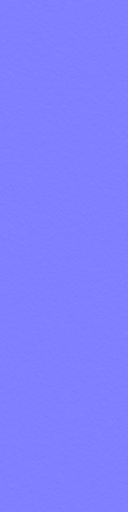
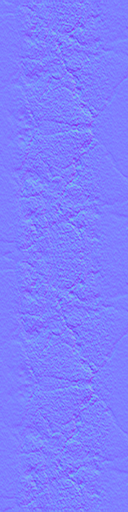
Real rubber, road film and scratch splats; scratch stamps from metal photographs; skid marks and gouges take real tarmac and soil grain

diff --git a/mod/vehicles/common/carSurfaceFx/scratch.js b/mod/vehicles/common/carSurfaceFx/scratch.js
@@ -48,11 +48,29 @@
     dirty = true;
   }
 
+  // a scratch stamp (4 columns x 8 rows of 256 x 128, the scratch runs along x) along every segment of a mark: the variant by place, thickness by the mark's width
+  function drawStamps(o, img) {
+    sctx.globalCompositeOperation = palette ? 'destination-out' : 'source-over';
+    for (var i = 0; i < o.l.length; i += 5) {
+      var x1 = o.l[i] * W, y1 = o.l[i + 1] * W, x2 = o.l[i + 2] * W, y2 = o.l[i + 3] * W, len = Math.sqrt((x2 - x1) * (x2 - x1) + (y2 - y1) * (y2 - y1));
+      if (len < 2) continue;
+      var v = Math.floor(hash(o.l[i], o.l[i + 1], 3) * 32), th = Math.max(6, o.l[i + 4] * W * 5);
+      sctx.save();
+      sctx.globalAlpha = Math.min(1, o.a);
+      sctx.translate((x1 + x2) / 2, (y1 + y2) / 2); sctx.rotate(Math.atan2(y2 - y1, x2 - x1));
+      sctx.drawImage(img, (v % 4) * 256, Math.floor(v / 4) * 128, 256, 128, -len * 0.6, -th / 2, len * 1.2, th);
+      sctx.restore();
+    }
+    dirty = true;
+  }
+
   // each scratch is a dark soft edge with the real colour down the middle, so it reads on light AND dark paint.
   function drawLines(o) {
     if (emis) return;
     sctx.lineCap = 'round';
+    var stamps = atlasFor('scratch', 1);                           // real scratches (art/surfacefx/splats/scratch.png): a stamp along each segment instead of a plain line
     for (var pass = 0; pass < 2; pass++) {
+      if (pass === 1 && stamps) { drawStamps(o, stamps); continue; }
       var edge = pass === 0;
       var k = dark ? 0.12 : (edge ? 0.3 : 1);
       ink([o.c[0] * k, o.c[1] * k, o.c[2] * k], edge ? o.a * 0.5 : o.a);
@@ -75,9 +93,10 @@
   // brown mud on dark blue paint is invisible when it can only darken, and pale dust cannot lighten at all). Both pages draw the same shapes.
   // Real splat pictures (art/surfacefx/splats/<kind>.png, made by tools/make_real_splats.py from CC0 photographs, see docs/TEXTURE_CREDITS.md): 4 x 4 variants of 256 px, RGBA.
   // Until a picture has loaded (or if it is missing) the splat is drawn the procedural way below, and the page redraws when it arrives.
-  var SPLAT_KINDS = { mud: 1, dust: 1, snow: 1 }, atlases = {};
+  var SPLAT_KINDS = { mud: 1, dust: 1, snow: 1, grime: 1, rubber: 1 }, atlases = {};
   function atlasFor(kind) {
     var a = atlases[kind];
+    if (a === undefined && typeof Image === 'undefined') return null;
     if (a === undefined) {
       a = atlases[kind] = { img: new Image(), ok: false };
       a.img.onload = function () { a.ok = true; dirty = true; redraw(); };

diff --git a/mod/vehicles/common/carSurfaceFx/scratch.html b/mod/vehicles/common/carSurfaceFx/scratch.html
@@ -10,6 +10,6 @@
 <body>
   <canvas id="csfxScratchCanvas"></canvas>
   <script src="paintwater.js?v=4"></script>
-  <script src="scratch.js?v=18"></script>
+  <script src="scratch.js?v=19"></script>
 </body>
 </html>

diff --git a/tools/make_real_splats.py b/tools/make_real_splats.py
@@ -110,6 +110,59 @@ def snow_cell(rng, img):
     return np.dstack([c, a])
 
 
+def grime_cell(rng, img):
+    r = radial(CELL)
+    n = fbm(rng, CELL, 2, 5)
+    grain = rng.random((CELL, CELL)).astype(np.float32)
+    a = smooth(1 - r, 0.0, 0.9) * (0.3 + 0.7 * n) * (0.85 + 0.15 * grain) * 0.95      # a soft film of road dirt
+    c = grade(crop(rng, img), (0.25, 0.24, 0.22), 0.85, 1.0)
+    return np.dstack([c, np.clip(a, 0, 1)])
+
+
+def rubber_cell(rng, img):
+    r = radial(CELL)
+    n = fbm(rng, CELL, 4, 5)
+    body = smooth(n * 0.95 + (1 - r ** 1.1) * 0.6 - 0.8, 0.0, 0.1)                   # smaller, crisper than mud: flecks and smears
+    drops = droplets(rng, CELL, int(rng.integers(30, 60)), 1.5, 5, (0.15, 0.95)) * smooth(n, 0.2, 0.5)
+    a = np.clip(np.maximum(body, drops), 0, 1) * 0.95
+    c = grade(crop(rng, img), (0.045, 0.045, 0.05), 0.9, 1.0)
+    return np.dstack([c, a])
+
+
+SC_W, SC_H, SC_COLS, SC_ROWS = 256, 128, 4, 8
+
+
+def scratch_cell(rng, gray):
+    """a scratch along x: the real fine scratches of a metal photograph (high-pass, kept where they are strong) around one longer wobbling scratch"""
+    h, w = gray.shape
+    y0, x0 = int(rng.integers(0, h - SC_H + 1)), int(rng.integers(0, w - SC_W + 1))
+    g = gray[y0:y0 + SC_H, x0:x0 + SC_W]
+    blur = np.asarray(Image.fromarray((g * 255).astype(np.uint8)).filter(ImageFilter.GaussianBlur(2.5)), np.float32) / 255.0
+    hp = np.abs(g - blur)
+    micro = np.clip(hp / max(float(np.percentile(hp, 99)), 1e-4), 0, 1) ** 1.6
+    yy, xx = np.mgrid[0:SC_H, 0:SC_W].astype(np.float32)
+    wob = (fbm(rng, SC_W, 2, 3)[0] - 0.5) * 18                                        # a wobble along x
+    cy = SC_H / 2 + wob[None, :] + (rng.random() - 0.5) * 20
+    d = np.abs(yy - cy)
+    main = np.exp(-(d / rng.uniform(0.9, 1.8)) ** 2) * rng.uniform(0.55, 1.0)
+    env = smooth(xx, 0, 40) * smooth(SC_W - 1 - xx, 0, 40) * (0.65 + 0.35 * fbm(rng, SC_W, 5, 2)[0][None, :])
+    a = np.clip(np.maximum(main * env, micro * np.exp(-(d / 26) ** 2) * env * 0.7), 0, 1)
+    c = np.clip(0.80 + 0.2 * g[..., None] * np.ones((1, 1, 3), np.float32), 0, 1) * np.array([1.0, 0.99, 0.96], np.float32)
+    return np.dstack([c, a])
+
+
+def scratch_atlas(name, grays, seed):
+    rng = np.random.default_rng(seed)
+    im = Image.new('RGBA', (SC_W * SC_COLS, SC_H * SC_ROWS))
+    for i in range(SC_COLS * SC_ROWS):
+        c = scratch_cell(rng, grays[i % len(grays)])
+        im.paste(Image.fromarray((np.clip(c, 0, 1) * 255).astype(np.uint8), 'RGBA'), ((i % SC_COLS) * SC_W, (i // SC_COLS) * SC_H))
+    os.makedirs(OUT, exist_ok=True)
+    p = os.path.join(OUT, name + '.png')
+    im.save(p, optimize=True)
+    print(p, os.path.getsize(p) // 1024, 'KB')
+
+
 def atlas(name, cells):
     im = Image.new('RGBA', (CELL * GRID, CELL * GRID))
     for i, c in enumerate(cells):
@@ -121,7 +174,7 @@ def atlas(name, cells):
 
 
 def main():
-    jobs = {'mud': (['mud'], mud_cell, 11), 'dust': (['dirt'], dust_cell, 22), 'snow': (['snow'], snow_cell, 33)}
+    jobs = {'mud': (['mud'], mud_cell, 11), 'dust': (['dirt'], dust_cell, 22), 'snow': (['snow'], snow_cell, 33), 'grime': (['grime'], grime_cell, 44), 'rubber': (['rubber'], rubber_cell, 55)}
     for name, (dirs, fn, seed) in jobs.items():
         maps = colour_maps(dirs)
         if not maps:
@@ -132,6 +185,10 @@ def main():
         cells = [fn(rng, imgs[i % len(imgs)]) for i in range(GRID * GRID)]       # every source texture is used, round and round
         atlas(name, cells)
         print(name, 'from', len(maps), 'textures')
+    metals = [np.asarray(Image.open(p).convert('L'), np.float32) / 255.0 for d in ('Metal003', 'Metal009', 'Metal010', 'Metal011') for p in glob.glob(os.path.join(RAW, 'scratches', d, '*_Color.jpg'))]
+    if metals:
+        scratch_atlas('scratch', metals, 66)
+        print('scratch from', len(metals), 'textures')
 
 
 main()

diff --git a/tools/make_mark_textures.py b/tools/make_mark_textures.py
@@ -93,6 +93,7 @@ def make_skid(seed, flip):
     col = np.stack([0.035 + 0.01 * grain, 0.035 + 0.01 * grain, 0.04 + 0.01 * grain], -1)
     hgt = 0.04 * streak + 0.015 * grain
     rough = 0.55 - 0.1 * (1 - np.abs(u)) + 0.05 * grain
+    col, hgt, rough = apply_real(real_detail('asphalt', seed, H, W), col, hgt, rough, a, 0.55)      # the grain of real tarmac under the rubber
     return dict(color=col, opacity=a * 0.95, normal=normal_from_height(hgt, 1.0, flip), rough=rough, size=(W, H))
 
 
@@ -115,6 +116,7 @@ REAL_SRC = {   # surface -> ambientCG assets (in <raw>/<group>/<asset>/)
     'gravel': ('dirt', ['Ground108', 'Ground110']),
     'sand': ('dirt', ['Ground080']),
     'snow': ('snow', ['Snow001', 'Snow003', 'Snow004', 'Snow013']),
+    'asphalt': ('grime', ['Asphalt031', 'Asphalt033', 'Asphalt023S', 'Asphalt025C', 'Asphalt026C', 'Road012A', 'Road013A']),
 }
 
 
@@ -136,7 +138,10 @@ def real_detail(name, seed, H, W):
     y, x = (int(rng.integers(0, col.shape[0] - W + 1)), int(rng.integers(0, col.shape[1] - W + 1)))
     def tile(a):
         c = a[y:y + W, x:x + W]
-        return np.concatenate([c, c[::-1]], 0)[:H]         # mirrored along the road: loops
+        parts = [c]
+        while sum(p.shape[0] for p in parts) < H:
+            parts.append(parts[-1][::-1])
+        return np.concatenate(parts, 0)[:H]         # mirrored along the road: loops
     c, dp, r = tile(col), tile(disp), tile(rough)
     shade = np.clip(c / max(float(c.mean()), 1e-3), 0.4, 1.8)
     return dict(shade=shade, disp=dp - float(dp.mean()), rough=r / max(float(r.mean()), 1e-3), asset=asset)
@@ -222,6 +227,7 @@ def make_gouge(name, seed, flip):
     col = edge_col[None, None, :] * (1 - mix) + base[None, None, :] * (0.85 + 0.2 * streak[..., None]) * mix
     rough = rough0 - 0.15 * core + 0.05 * chips
     ao = 1.0 - 0.5 * core
+    col, hgt, rough = apply_real(real_detail('asphalt' if name == 'asphalt' else 'dirt', seed, H, W), col, hgt, rough, core, rough0)
     return dict(color=np.clip(col, 0, 1), opacity=a, normal=normal_from_height(hgt, 3.0, flip), rough=rough, ao=ao, size=(W, H))
 
 

diff --git a/docs/TEXTURE_CREDITS.md b/docs/TEXTURE_CREDITS.md
@@ -1,24 +1,38 @@
 # Texture credits
 
-Real photographs used to make the dirt, dust, mud and snow splats on the paint (`mod/art/surfacefx/splats/*.png`, `tools/make_real_splats.py`) and the micro-detail of the ground marks (the grain, pebbles and clods in the normal, colour and roughness maps of the ruts and tracks in `mod/art/surfacefx/marks/`, `tools/make_mark_textures.py --raw`).
+Real photographs used to make the dirt, dust, mud, snow, rubber, road film and scratch splats on the paint (`mod/art/surfacefx/splats/*.png`, `tools/make_real_splats.py`) and the micro-detail of the ground marks (the grain, pebbles and clods in the normal, colour and roughness maps of the ruts, tracks, skid marks and gouges in `mod/art/surfacefx/marks/`, `tools/make_mark_textures.py --raw`).
 All sources are CC0 1.0 (public domain dedication) from ambientCG (https://ambientcg.com, by Lennart Demes and contributors), which allows use and redistribution without credit; the credit is given anyway.
-The downloads were kept outside the mod and only the colour, displacement and roughness maps were read. What ships is derived from them (crops graded toward a mud, dust or snow colour with seeded noise masks, and height and roughness detail laid over the procedural marks); the photographs themselves are not shipped.
+The downloads were kept outside the mod and only the colour, displacement and roughness maps were read. What ships is derived from them (crops graded toward a mud, dust, snow, rubber or road colour with seeded noise masks, fine scratches cut out of metal photographs, and height and roughness detail laid over the procedural marks); the photographs themselves are not shipped.
 
 | Used for | Asset | Link | Author | Licence | Downloaded |
 |---|---|---|---|---|---|
-| dust splats, dirt/gravel/sand ruts and tracks | Ground048 | https://ambientcg.com/view?id=Ground048 | ambientCG (Lennart Demes and contributors) | CC0 1.0 | 2026-10-19 |
-| dust splats, dirt/gravel/sand ruts and tracks | Ground080 | https://ambientcg.com/view?id=Ground080 | ambientCG (Lennart Demes and contributors) | CC0 1.0 | 2026-10-19 |
-| dust splats, dirt/gravel/sand ruts and tracks | Ground103 | https://ambientcg.com/view?id=Ground103 | ambientCG (Lennart Demes and contributors) | CC0 1.0 | 2026-10-19 |
-| dust splats, dirt/gravel/sand ruts and tracks | Ground107 | https://ambientcg.com/view?id=Ground107 | ambientCG (Lennart Demes and contributors) | CC0 1.0 | 2026-10-19 |
-| dust splats, dirt/gravel/sand ruts and tracks | Ground108 | https://ambientcg.com/view?id=Ground108 | ambientCG (Lennart Demes and contributors) | CC0 1.0 | 2026-10-19 |
-| dust splats, dirt/gravel/sand ruts and tracks | Ground110 | https://ambientcg.com/view?id=Ground110 | ambientCG (Lennart Demes and contributors) | CC0 1.0 | 2026-10-19 |
-| dust splats, dirt/gravel/sand ruts and tracks | Ground111 | https://ambientcg.com/view?id=Ground111 | ambientCG (Lennart Demes and contributors) | CC0 1.0 | 2026-10-19 |
+| dust splats, dirt/gravel/sand ruts and tracks, dirt gouge | Ground048 | https://ambientcg.com/view?id=Ground048 | ambientCG (Lennart Demes and contributors) | CC0 1.0 | 2026-10-19 |
+| dust splats, dirt/gravel/sand ruts and tracks, dirt gouge | Ground080 | https://ambientcg.com/view?id=Ground080 | ambientCG (Lennart Demes and contributors) | CC0 1.0 | 2026-10-19 |
+| dust splats, dirt/gravel/sand ruts and tracks, dirt gouge | Ground103 | https://ambientcg.com/view?id=Ground103 | ambientCG (Lennart Demes and contributors) | CC0 1.0 | 2026-10-19 |
+| dust splats, dirt/gravel/sand ruts and tracks, dirt gouge | Ground107 | https://ambientcg.com/view?id=Ground107 | ambientCG (Lennart Demes and contributors) | CC0 1.0 | 2026-10-19 |
+| dust splats, dirt/gravel/sand ruts and tracks, dirt gouge | Ground108 | https://ambientcg.com/view?id=Ground108 | ambientCG (Lennart Demes and contributors) | CC0 1.0 | 2026-10-19 |
+| dust splats, dirt/gravel/sand ruts and tracks, dirt gouge | Ground110 | https://ambientcg.com/view?id=Ground110 | ambientCG (Lennart Demes and contributors) | CC0 1.0 | 2026-10-19 |
+| dust splats, dirt/gravel/sand ruts and tracks, dirt gouge | Ground111 | https://ambientcg.com/view?id=Ground111 | ambientCG (Lennart Demes and contributors) | CC0 1.0 | 2026-10-19 |
+| road film splats, tarmac skid marks and gouge (grain) | Asphalt023S | https://ambientcg.com/view?id=Asphalt023S | ambientCG (Lennart Demes and contributors) | CC0 1.0 | 2026-10-19 |
+| road film splats, tarmac skid marks and gouge (grain) | Asphalt025C | https://ambientcg.com/view?id=Asphalt025C | ambientCG (Lennart Demes and contributors) | CC0 1.0 | 2026-10-19 |
+| road film splats, tarmac skid marks and gouge (grain) | Asphalt026C | https://ambientcg.com/view?id=Asphalt026C | ambientCG (Lennart Demes and contributors) | CC0 1.0 | 2026-10-19 |
+| road film splats, tarmac skid marks and gouge (grain) | Asphalt031 | https://ambientcg.com/view?id=Asphalt031 | ambientCG (Lennart Demes and contributors) | CC0 1.0 | 2026-10-19 |
+| road film splats, tarmac skid marks and gouge (grain) | Asphalt033 | https://ambientcg.com/view?id=Asphalt033 | ambientCG (Lennart Demes and contributors) | CC0 1.0 | 2026-10-19 |
+| road film splats, tarmac skid marks and gouge (grain) | Road012A | https://ambientcg.com/view?id=Road012A | ambientCG (Lennart Demes and contributors) | CC0 1.0 | 2026-10-19 |
+| road film splats, tarmac skid marks and gouge (grain) | Road013A | https://ambientcg.com/view?id=Road013A | ambientCG (Lennart Demes and contributors) | CC0 1.0 | 2026-10-19 |
 | mud splats, mud ruts and tracks | Ground023 | https://ambientcg.com/view?id=Ground023 | ambientCG (Lennart Demes and contributors) | CC0 1.0 | 2026-10-19 |
 | mud splats, mud ruts and tracks | Ground036 | https://ambientcg.com/view?id=Ground036 | ambientCG (Lennart Demes and contributors) | CC0 1.0 | 2026-10-19 |
 | mud splats, mud ruts and tracks | Ground051 | https://ambientcg.com/view?id=Ground051 | ambientCG (Lennart Demes and contributors) | CC0 1.0 | 2026-10-19 |
 | mud splats, mud ruts and tracks | Ground071 | https://ambientcg.com/view?id=Ground071 | ambientCG (Lennart Demes and contributors) | CC0 1.0 | 2026-10-19 |
 | mud splats, mud ruts and tracks | Ground095A | https://ambientcg.com/view?id=Ground095A | ambientCG (Lennart Demes and contributors) | CC0 1.0 | 2026-10-19 |
 | mud splats, mud ruts and tracks | Ground106 | https://ambientcg.com/view?id=Ground106 | ambientCG (Lennart Demes and contributors) | CC0 1.0 | 2026-10-19 |
+| rubber splats | Rubber001 | https://ambientcg.com/view?id=Rubber001 | ambientCG (Lennart Demes and contributors) | CC0 1.0 | 2026-10-19 |
+| rubber splats | Rubber002 | https://ambientcg.com/view?id=Rubber002 | ambientCG (Lennart Demes and contributors) | CC0 1.0 | 2026-10-19 |
+| rubber splats | Rubber004 | https://ambientcg.com/view?id=Rubber004 | ambientCG (Lennart Demes and contributors) | CC0 1.0 | 2026-10-19 |
+| scratch stamps | Metal003 | https://ambientcg.com/view?id=Metal003 | ambientCG (Lennart Demes and contributors) | CC0 1.0 | 2026-10-19 |
+| scratch stamps | Metal009 | https://ambientcg.com/view?id=Metal009 | ambientCG (Lennart Demes and contributors) | CC0 1.0 | 2026-10-19 |
+| scratch stamps | Metal010 | https://ambientcg.com/view?id=Metal010 | ambientCG (Lennart Demes and contributors) | CC0 1.0 | 2026-10-19 |
+| scratch stamps | Metal011 | https://ambientcg.com/view?id=Metal011 | ambientCG (Lennart Demes and contributors) | CC0 1.0 | 2026-10-19 |
 | snow splats, snow ruts and tracks | Ice004 | https://ambientcg.com/view?id=Ice004 | ambientCG (Lennart Demes and contributors) | CC0 1.0 | 2026-10-19 |
 | snow splats, snow ruts and tracks | Snow001 | https://ambientcg.com/view?id=Snow001 | ambientCG (Lennart Demes and contributors) | CC0 1.0 | 2026-10-19 |
 | snow splats, snow ruts and tracks | Snow003 | https://ambientcg.com/view?id=Snow003 | ambientCG (Lennart Demes and contributors) | CC0 1.0 | 2026-10-19 |
@@ -28,5 +42,3 @@ The downloads were kept outside the mod and only the colour, displacement and ro
 | snow splats, snow ruts and tracks | Snow008C | https://ambientcg.com/view?id=Snow008C | ambientCG (Lennart Demes and contributors) | CC0 1.0 | 2026-10-19 |
 | snow splats, snow ruts and tracks | Snow010C | https://ambientcg.com/view?id=Snow010C | ambientCG (Lennart Demes and contributors) | CC0 1.0 | 2026-10-19 |
 | snow splats, snow ruts and tracks | Snow013 | https://ambientcg.com/view?id=Snow013 | ambientCG (Lennart Demes and contributors) | CC0 1.0 | 2026-10-19 |
-
-Also downloaded, not used yet (scratches, rubber, road film): Asphalt031, Asphalt033, Ground017, Metal003, Metal007, Metal008, Metal009, Metal010, Metal011, Metal012, Road007, Road008A, Road012A, Road013A, Rock054, Rubber001, Rubber002, Rubber004.
